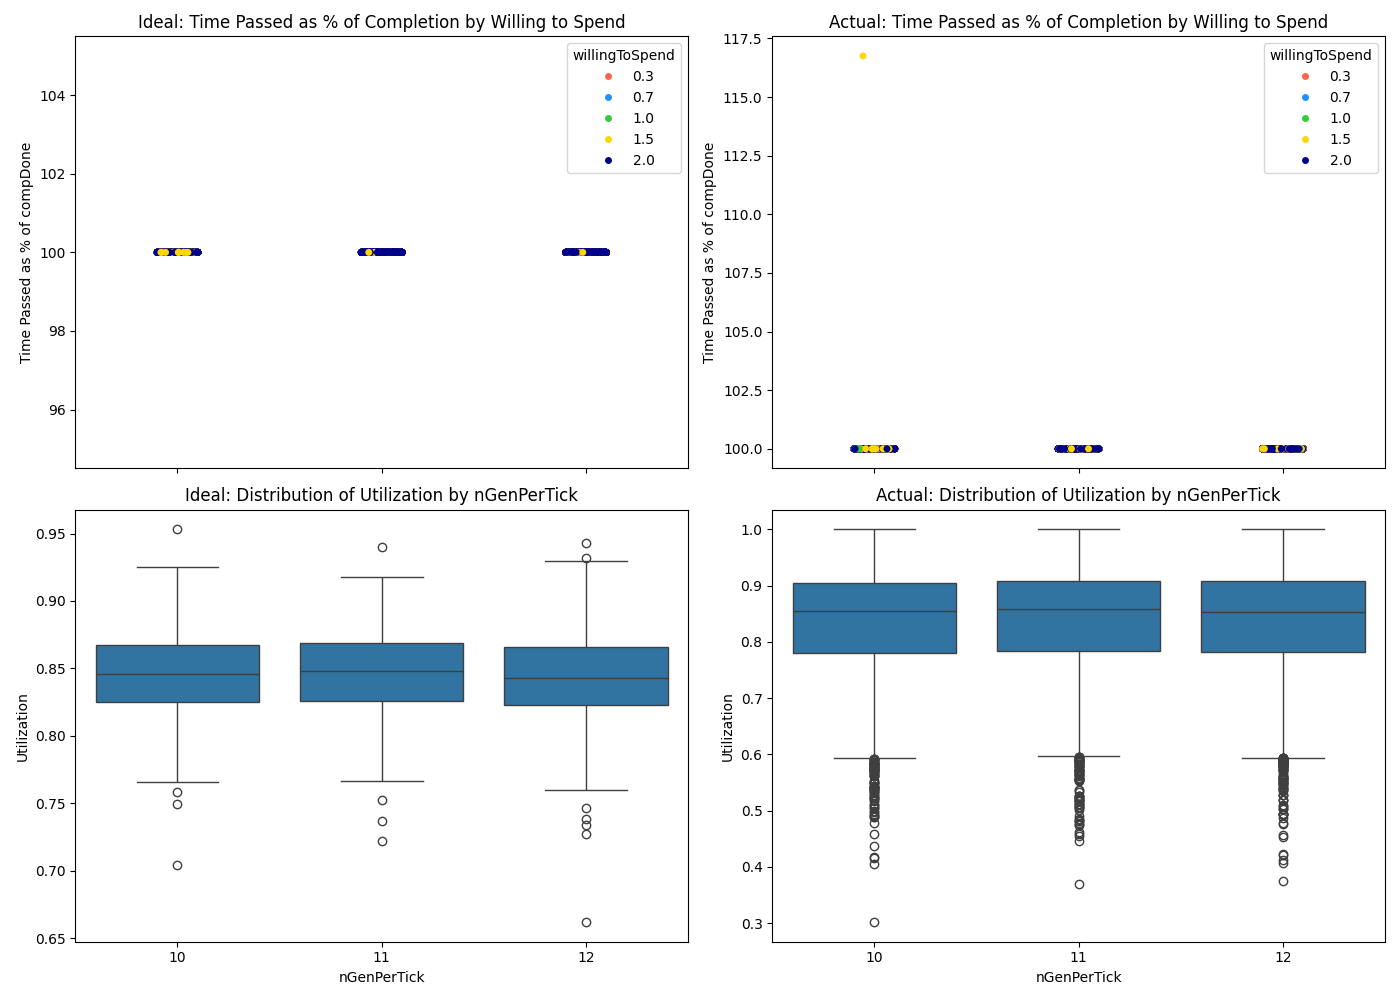
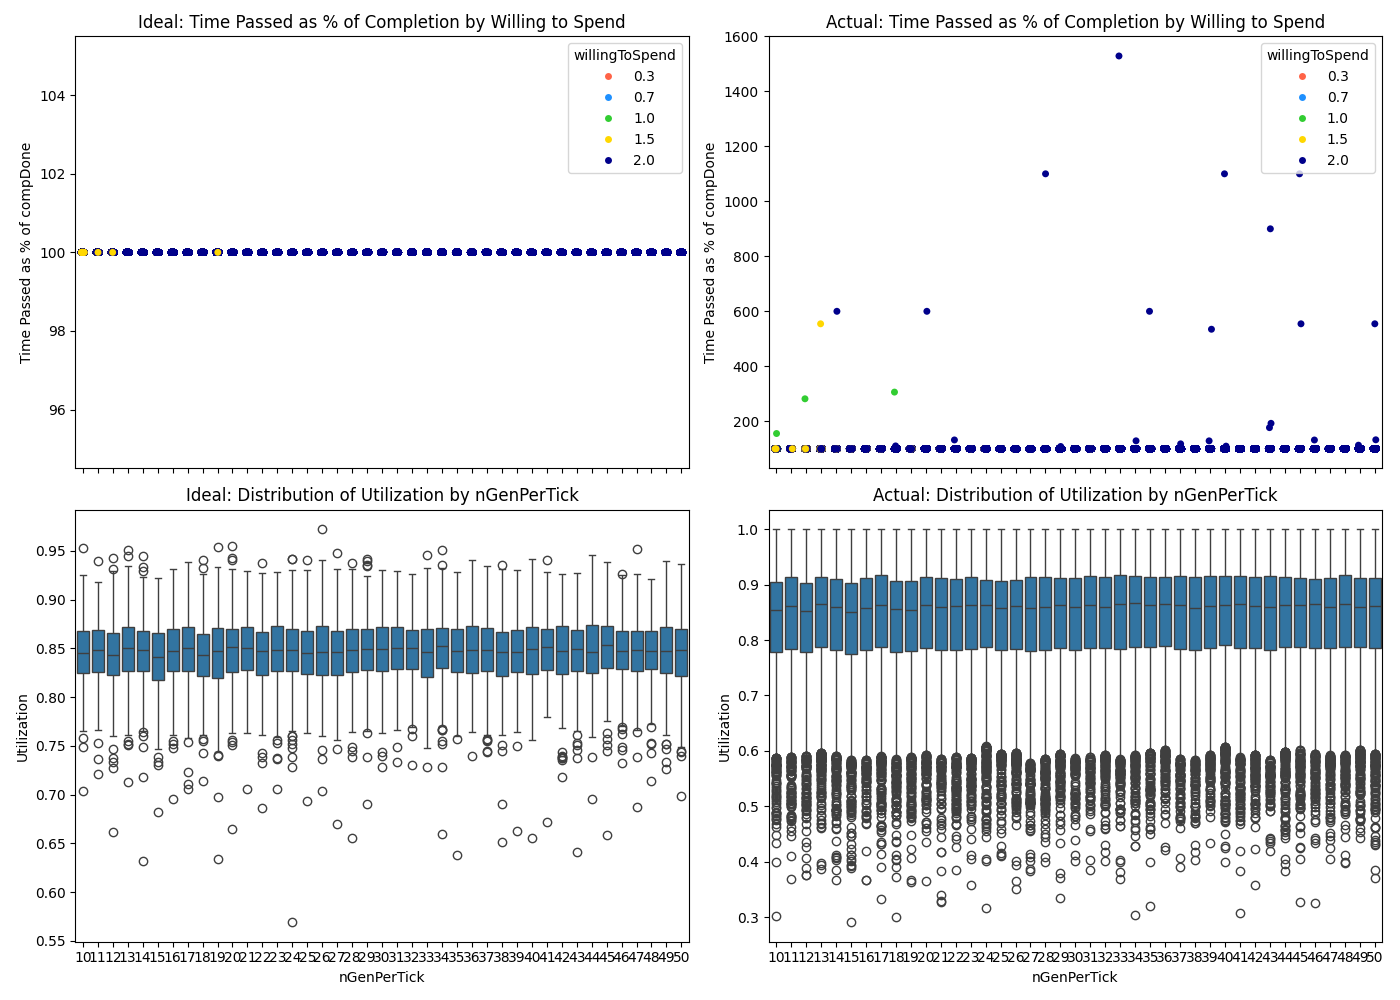
did a full run

diff --git a/run_test.go b/run_test.go
@@ -18,7 +18,7 @@ const (
 	// TODO: I think next step is to make this more differentiated -- do pareto distribution? has a mean and an avg vaguely, I think
 	// is whats pareto distributed the number of procs or their runtime? or both?
 	N_PROCS_GEN_PER_TICK_START = 10
-	N_PROCS_GEN_PER_TICK_END   = 12
+	N_PROCS_GEN_PER_TICK_END   = 50
 )
 
 func TestRunWorld(t *testing.T) {

diff --git a/world.go b/world.go
@@ -10,7 +10,7 @@ const (
 
 	IDLE_HEAP_THRESHOLD = 1
 
-	VERBOSE_SCHED_INFO       = true
+	VERBOSE_SCHED_INFO       = false
 	VERBOSE_USAGE_STATS      = true
 	VERBOSE_IDEAL_SCHED_INFO = false
 )
